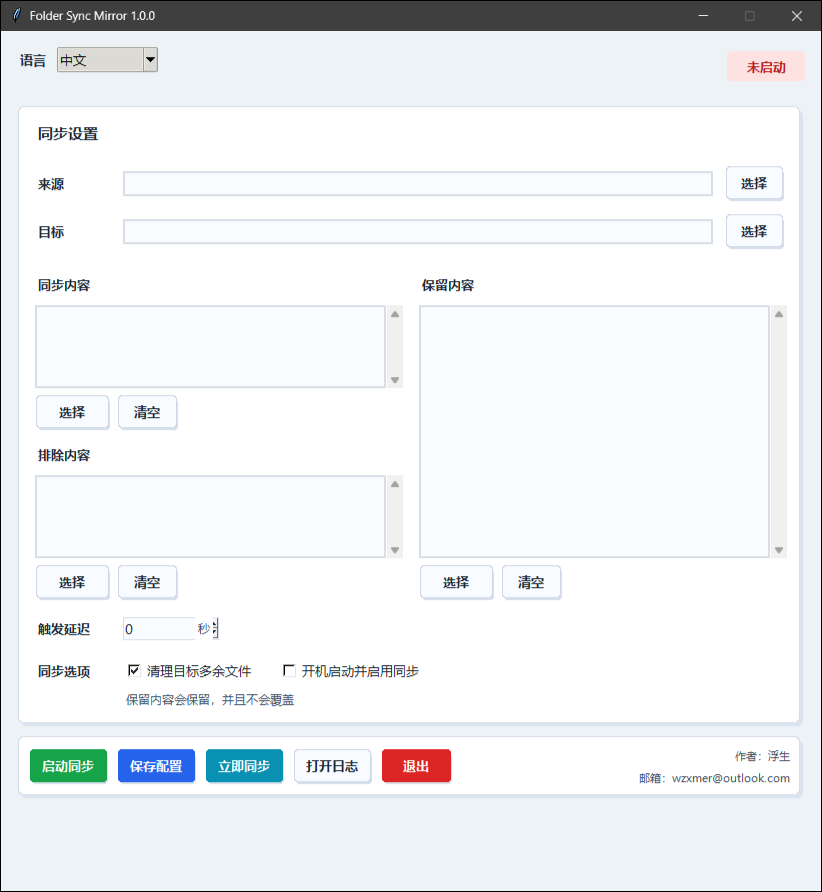
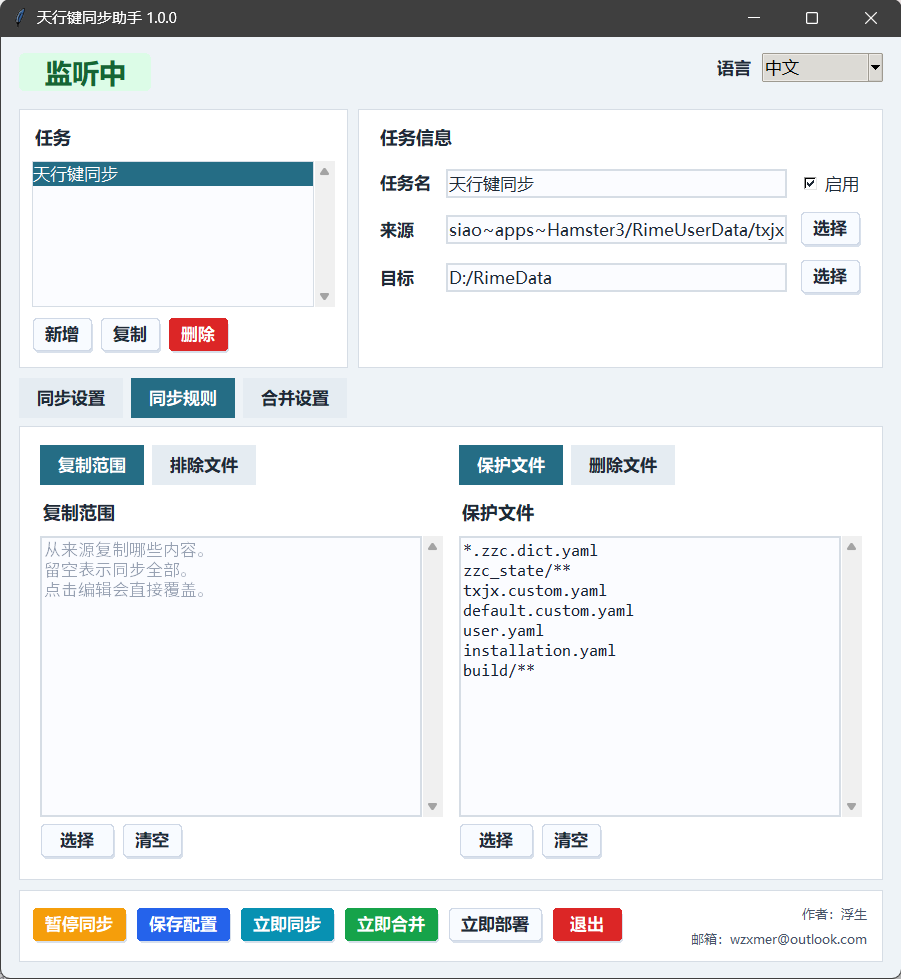
docs: update Chinese release docs

diff --git a/README.md b/README.md
@@ -1,85 +1,106 @@
 # 天行键同步助手
 
-天行键同步助手 is a desktop tray app for txjx folder synchronization and zzc merge. It watches a source folder, copies selected content into a target folder, and can remove extra target files so the target stays consistent with the selected source content.
+天行键同步助手是一个用于 txjx 方案同步和 zzc 自造词合并的桌面托盘软件。它会监听“来源”文件夹的变化，把选中的内容同步到“目标”文件夹，并可以删除目标中多出的文件，让目标与来源中被选择同步的内容保持一致。
 
-Version: `1.0.0`
+当前版本：`1.0.0`
 
-[中文介绍](docs/README.zh-CN.md)
+![中文界面](docs/images/zh-interface-home.png)
 
-![English interface](docs/images/english-interface.png)
+## 主要功能
 
-## Features
+- 来源到目标的单向同步。
+- 在软件中选择来源文件夹和目标文件夹。
+- 软件内可切换中文和英文界面。
+- 可设置只同步哪些文件或文件夹。
+- 可排除来源中不需要同步的内容。
+- 可设置保护文件，这些内容不会被删除，也不会被覆盖。
+- 可设置删除文件范围，只在指定目标位置删除多余文件。
+- 监听来源变化后自动同步，可设置触发延迟，最低 0 秒。
+- 可清理目标中多出的文件。
+- 支持托盘后台运行、暂停、继续、立即同步、立即合并、立即部署和打开日志。
+- 点击关闭窗口会收起到托盘，不会退出程序。
+- 可开启开机启动并自动开始同步。
+- 日志按大小自动清理。
 
-- One-way source-to-target synchronization.
-- Source and target folder selection in the app.
-- Language switch between Chinese and English.
-- Include rules for syncing only selected files or folders.
-- Source exclusion rules for content that should not be copied.
-- Target protected content that will not be deleted or overwritten.
-- Target cleanup scope for limiting where extra target files may be deleted.
-- Event-based source and managed-target folder watching with configurable trigger delay.
-- Optional cleanup of extra target files.
-- Tray background mode with pause, resume, manual sync, log opening, and close-to-tray behavior.
-- Optional startup mode that launches in the background and starts synchronization automatically.
-- Log cleanup by size.
+## 自动打包
 
-## Usage
+GitHub Actions 会自动打包发布产物：
 
-Download the installer for your platform from the release page.
+- 推送到 `master`：构建 Windows、macOS、Linux 产物并保存在 Actions artifacts。
+- 推送 `v*` 标签：构建并上传到对应 GitHub Release。
+- 手动运行 `workflow_dispatch`：按输入的 `release_tag` 上传到指定 Release。
 
-Windows users can install with:
+Windows 产物：
 
 ```text
 txjxSyncAssistant_1.0.0_x64-setup.exe
+txjxSyncAssistant.exe
 ```
 
-Windows also provides `txjxSyncAssistant.exe` as a portable option.
-
-macOS users can install with:
+macOS 产物：
 
 ```text
 txjxSyncAssistant_1.0.0_x64.dmg
 ```
 
-Linux users can install the DEB or RPM package:
+Linux 产物：
 
 ```text
 txjxSyncAssistant_1.0.0_amd64.deb
 txjxSyncAssistant_1.0.0_x86_64.rpm
 ```
 
-Synchronization is disabled by default. Select a source folder and target folder, adjust the rules if needed, then click `Start Sync`. After synchronization starts, the same button becomes `Pause Sync`.
+## 使用方法
 
-Closing the window hides the app to the tray instead of exiting. Use the in-app `Exit` button or the tray menu to quit.
+默认不会自动启动同步。先选择来源文件夹和目标文件夹，再按需要设置复制范围、排除文件、保护文件和删除文件，最后点击“启动同步”。启动后按钮会变成“暂停同步”。
 
-## Rules
+关闭窗口只会收起到托盘。需要退出时，请点击窗口里的“退出”或托盘菜单里的“退出”。
 
-The source folder is the authority. The target folder is managed to match the selected source content.
+## 天行键参考配置
 
-- `Include` controls what should be synced. Empty means everything.
-- `Exclude` removes matching source content from syncing.
-- `Keep` protects matching target content from deletion and overwrite.
-- `Deleted Files` controls where extra target files may be deleted. Empty means the whole target.
-- `Clean extra target files` removes unmanaged target files inside `Deleted Files` unless they match `Keep`.
+如果要把 Hamster 的 iCloud 天行键目录同步到本机 Rime 用户目录，可以参考 [docs/txjx-reference-config.jsonc](docs/txjx-reference-config.jsonc)。这份配置来自日常使用配置，但已经脱敏本机用户名、iCloud 绝对路径和本地环境细节。
 
-Folder rules usually use the `folder/**` pattern.
+关键规则：
 
-## Multi-Task Mode
+- 来源排除 Python 缓存、构建目录、打包目录和临时文本文件。
+- 目标保护 `*.zzc.dict.yaml`、`zzc_state/**`、本机 custom YAML、`user.yaml`、`installation.yaml` 和 `build/**`。
+- `target_clean` 留空表示允许清理整个目标，必须依赖保护规则兜住本机专有文件。
+- 使用自造词合并时，`zzc_target_dicts` 保持为 `txjx.dict.yaml`。
 
-The app can run multiple enabled tasks from `tasks[]`.
+个人 `config.json` 只留在本机；仓库已忽略该文件。
 
-- Every task watches its own source and syncs to its target.
-- On each change, files are copied or overwritten unless protected, and extra target files are deleted when `Clean extra target files` allows it.
-- A task can also merge zzc records when its merge settings are enabled.
-- Different target resources run in parallel.
-- Same or parent/child target resources are serialized.
-- Empty `tasks: []` keeps the legacy single-task form.
+## 规则说明
 
-The desktop UI can add, duplicate, delete, enable, and edit tasks. New tasks are disabled by default until their paths are filled.
+来源是标准内容，目标是被同步和清理的目录。
 
-When auto zzc merge is enabled, sync protects `*.zzc.dict.yaml` and `zzc_state/zzc_reset.tsv`; the merge step owns updates to them.
+- `复制范围`：从来源复制哪些内容。留空表示同步全部。
+- `排除文件`：来源中哪些内容不复制到目标，优先级高于复制范围。
+- `保护文件`：目标中哪些内容不覆盖、不删除。
+- `删除文件`：目标中哪些位置允许删除多余文件。留空表示允许清理整个目标。
+- `清理目标多余文件`：开启后，只在删除文件范围内删除不属于同步结果且不在保护文件里的文件。
 
-## Author
+文件夹规则通常使用：
 
-Author: 浮生  
-Email: [email redacted]
+```text
+folder/**
+```
+
+## 多任务模式
+
+软件可以从 `tasks[]` 同时运行多个已启用任务。
+
+- 每个任务都会实时监测自己的来源，并同步到自己的目标。
+- 每次变动后，未被保护的内容会按规则覆盖；多余目标文件会在“清理目标多余文件”和“删除文件”范围允许时删除。
+- 任务启用合并设置后，也可以合并自造词、清空待合并记录，并写入 `zzc_state/zzc_reset.tsv`。
+- 不同目标资源可以并行。
+- 相同目标或父子目标路径会自动串行。
+- `tasks: []` 为空时继续兼容旧单任务配置。
+
+桌面 UI 可以新增、复制、删除、启用和编辑任务。新任务默认禁用，填好路径后再启用。
+
+开启自动合并自造词后，同步会保护 `*.zzc.dict.yaml` 和 `zzc_state/zzc_reset.tsv`；这两个文件由合并步骤负责更新。
+
+## 作者
+
+作者：浮生
+邮箱：[email redacted]

diff --git a/docs/README.zh-CN.md b/docs/README.zh-CN.md
@@ -1,10 +1,8 @@
-# 天行键同步助手中文介绍
+# 天行键同步助手
 
 天行键同步助手是一个用于 txjx 方案同步和 zzc 自造词合并的桌面托盘软件。它会监听“来源”文件夹的变化，把选中的内容同步到“目标”文件夹，并可以删除目标中多出的文件，让目标与来源中被选择同步的内容保持一致。
 
 当前版本：`1.0.0`
-
-[English README](../README.md)
 
 ![中文界面](images/zh-interface-home.png)
 
@@ -19,39 +17,57 @@
 - 可设置删除文件范围，只在指定目标位置删除多余文件。
 - 监听来源变化后自动同步，可设置触发延迟，最低 0 秒。
 - 可清理目标中多出的文件。
-- 支持托盘后台运行、暂停、继续、立即同步、打开日志。
+- 支持托盘后台运行、暂停、继续、立即同步、立即合并、立即部署和打开日志。
 - 点击关闭窗口会收起到托盘，不会退出程序。
 - 可开启开机启动并自动开始同步。
 - 日志按大小自动清理。
 
-## 使用方法
+## 自动打包
 
-从 Release 页面下载对应平台的安装包。
+GitHub Actions 会自动打包发布产物：
 
-Windows 可安装：
+- 推送到 `master`：构建 Windows、macOS、Linux 产物并保存在 Actions artifacts。
+- 推送 `v*` 标签：构建并上传到对应 GitHub Release。
+- 手动运行 `workflow_dispatch`：按输入的 `release_tag` 上传到指定 Release。
+
+Windows 产物：
 
 ```text
 txjxSyncAssistant_1.0.0_x64-setup.exe
+txjxSyncAssistant.exe
 ```
 
-Windows 也会提供 `txjxSyncAssistant.exe` 作为免安装版本。
-
-macOS 可安装：
+macOS 产物：
 
 ```text
 txjxSyncAssistant_1.0.0_x64.dmg
 ```
 
-Linux 可安装 DEB 或 RPM：
+Linux 产物：
 
 ```text
 txjxSyncAssistant_1.0.0_amd64.deb
 txjxSyncAssistant_1.0.0_x86_64.rpm
 ```
 
+## 使用方法
+
 默认不会自动启动同步。先选择来源文件夹和目标文件夹，再按需要设置复制范围、排除文件、保护文件和删除文件，最后点击“启动同步”。启动后按钮会变成“暂停同步”。
 
 关闭窗口只会收起到托盘。需要退出时，请点击窗口里的“退出”或托盘菜单里的“退出”。
+
+## 天行键参考配置
+
+如果要把 Hamster 的 iCloud 天行键目录同步到本机 Rime 用户目录，可以参考 [txjx-reference-config.jsonc](txjx-reference-config.jsonc)。这份配置来自日常使用配置，但已经脱敏本机用户名、iCloud 绝对路径和本地环境细节。
+
+关键规则：
+
+- 来源排除 Python 缓存、构建目录、打包目录和临时文本文件。
+- 目标保护 `*.zzc.dict.yaml`、`zzc_state/**`、本机 custom YAML、`user.yaml`、`installation.yaml` 和 `build/**`。
+- `target_clean` 留空表示允许清理整个目标，必须依赖保护规则兜住本机专有文件。
+- 使用自造词合并时，`zzc_target_dicts` 保持为 `txjx.dict.yaml`。
+
+个人 `config.json` 只留在本机；仓库已忽略该文件。
 
 ## 规则说明
 